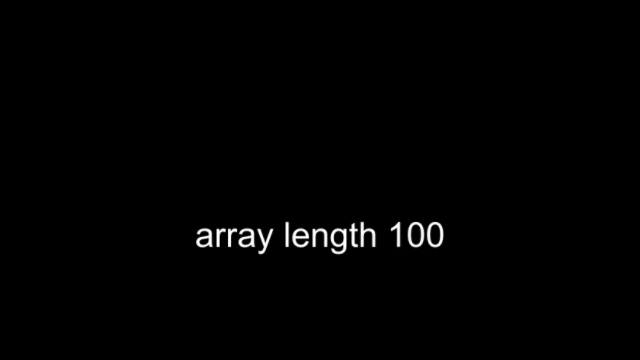
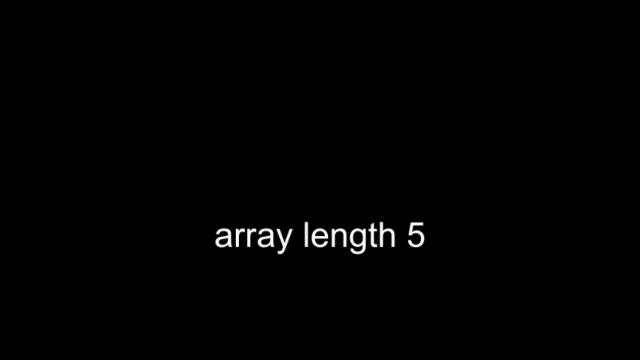
stuff

Changed region(s): [[0.2812, 0.6111, 0.7188, 0.7028]]

diff --git a/src/ops/base/Ops.Array.Array/Ops.Array.Array.js b/src/ops/base/Ops.Array.Array/Ops.Array.Array.js
@@ -16,7 +16,14 @@ function reset()
     outArr.set(arr);
     var l=parseInt(inLength.get(),10); //why this ?
     //var l=Math.floor(inLength.get());
-    if(l<0)return;
+
+    //if(l<0)return;
+    if(l < 0)
+    {
+        //outArr.set(null);
+        // outArr.length = 0;//this stops array resetting..
+        return;
+    }
 
     arr.length=l;
 

diff --git a/src/ops/base/Ops.Anim.RandomAnim/Ops.Anim.RandomAnim.js b/src/ops/base/Ops.Anim.RandomAnim/Ops.Anim.RandomAnim.js
@@ -6,13 +6,9 @@ var seed=op.inValue("random seed",0);
 
 var duration=op.inValue("duration",0.5);
 var pause=op.inValue("pause between",0);
-
-
 var next=op.outTrigger("Next");
-
 var result=op.outValue("result");
 var looped=op.outTrigger("Looped");
-
 var anim=new CABLES.Anim();
 anim.createPort(op,"easing",reinit);
 

diff --git a/src/ops/base/Ops.Array.ArrayBuffer3x/Ops.Array.ArrayBuffer3x.js b/src/ops/base/Ops.Array.ArrayBuffer3x/Ops.Array.ArrayBuffer3x.js
@@ -21,6 +21,11 @@ var wasReset=true;
 
 function reset()
 {
+    if (maxLength === 0)
+    {
+        arr.set (null);
+        return;
+    }
     arr.length=Math.abs(Math.floor(maxLength.get()*3))||0;
     for(var i=0;i<arr.length;i++) arr[i]=0;
 

diff --git a/src/ops/base/Ops.Array.Array3xInterpolateDistributed/Ops.Array.Array3xInterpolateDistributed.js b/src/ops/base/Ops.Array.Array3xInterpolateDistributed/Ops.Array.Array3xInterpolateDistributed.js
@@ -19,6 +19,11 @@ function updateArr1()
 
 function updateArr2()
 {
+    if (!inArr1 || !inArr2)
+    {
+        arrOut.set(null);
+        return;
+    }
     if(!inArr2.get())return;
 
     indexArray.length=Math.ceil(inArr2.get().length/3);

diff --git a/src/ops/base/Ops.Math.Pi/Ops.Math.Pi.js b/src/ops/base/Ops.Math.Pi/Ops.Math.Pi.js
@@ -1,1 +1,8 @@
+const multiply = op.inValueFloat("Multiply amount",1.0);
+// var p=op.outValue("Pi",Math.PI);
 var p=op.outValue("Pi",Math.PI);
+
+multiply.onChange = function ()
+{
+    p.setValue(Math.PI * multiply.get());
+}
